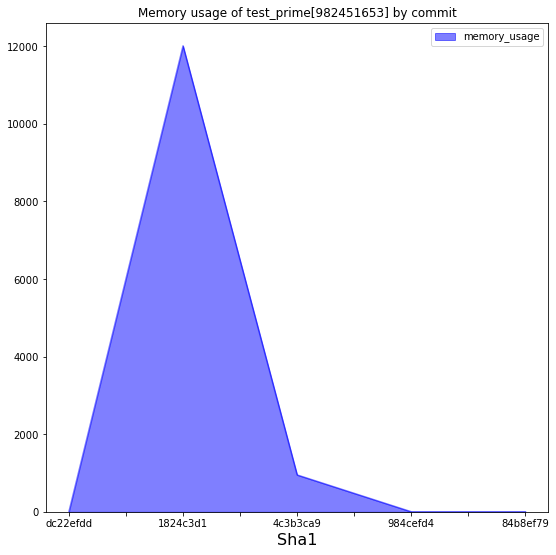
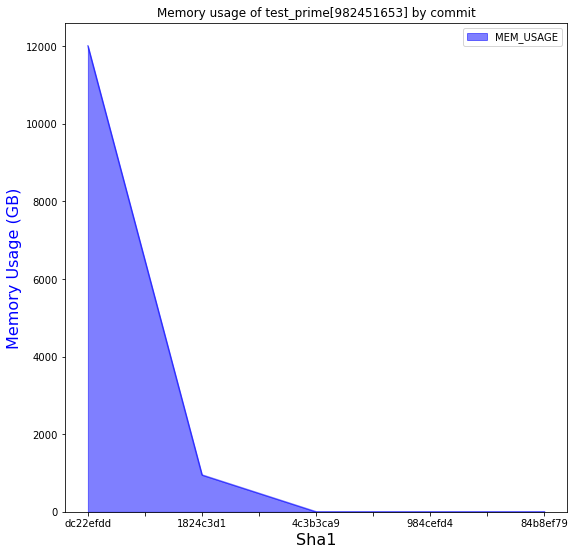
Enhanced visualization. Improved the monitor-server section

diff --git a/slides.md b/slides.md
@@ -113,7 +113,7 @@ test_prime[982451653]|test_prime|0.6953125|0.0812724881534601|0.205749034881592|
 --- ---
  ## Monitor-server-API
 ---
-##### About
+##### About (1/2)
 
 Leverage pytest-monitor with 2 building blocks:
 
@@ -121,7 +121,7 @@ Leverage pytest-monitor with 2 building blocks:
    * dedicated to query and fetch your data
    * works seemlessly with a local pytest-monitor database
 ---
-##### About
+##### About (2/2)
 
 Leverage pytest-monitor with 2 building blocks:
 
@@ -155,10 +155,15 @@ tests/test_primality.py .....                         [ 100%]
 
 ```python
 from monitor_server_api import Monitor, Field
+import os
 
-mon = Monitor('http://my-monitor-server.org/api/v1')
+def keep_test_prime_982451653(data):
+    return data.variant == 'test_prime_982451653'
+
+mon = Monitor(os.environ['URL'])
 sessions = mon.list_sessions()
 metrics = mon.list_metrics_from(sessions)
+metrics = metrics.filter_with(keep_test_prime_982451653)
 df = metrics.to_df(sessions,
                    keep=[Field.ITEM_VARIANT, Field.TOTAL_TIME,
                          Field.ITEM_START_TIME, Field.MEM_USAGE,
@@ -166,6 +171,8 @@ df = metrics.to_df(sessions,
 
 ```
 ---
+
+##### Example, Visualization
 <style>.container{
     display: flex;
 }
@@ -178,6 +185,9 @@ df = metrics.to_df(sessions,
     <img src='ptm_wall.png'>
   </div>
   <div class="col">
+    <img src='ptm_wall_mem.png'>
+  </div>
+  <div class="col">
     <img src='ptm_mem.png'>
   </div>
 </div>
@@ -187,9 +197,9 @@ df = metrics.to_df(sessions,
 ##### conclusion
 
 * Easy to fetch and plot data
-* No need to worry about internal data model
-* Enables parallelism
-* Perfect companion to pytest-monitor :)
+* No need to worry about internal data model <!-- .element class="fragment" data-fragment-index="1" -->
+* Enables parallelism <!-- .element class="fragment" data-fragment-index="2" -->
+* Perfect companion to pytest-monitor :) <!-- .element class="fragment" data-fragment-index="3" -->
 
 --- ---
 
@@ -239,6 +249,4 @@ df = metrics.to_df(sessions,
 └─────────────────┘                └────────────────┘
 ```
 
-
-                     
 ---
